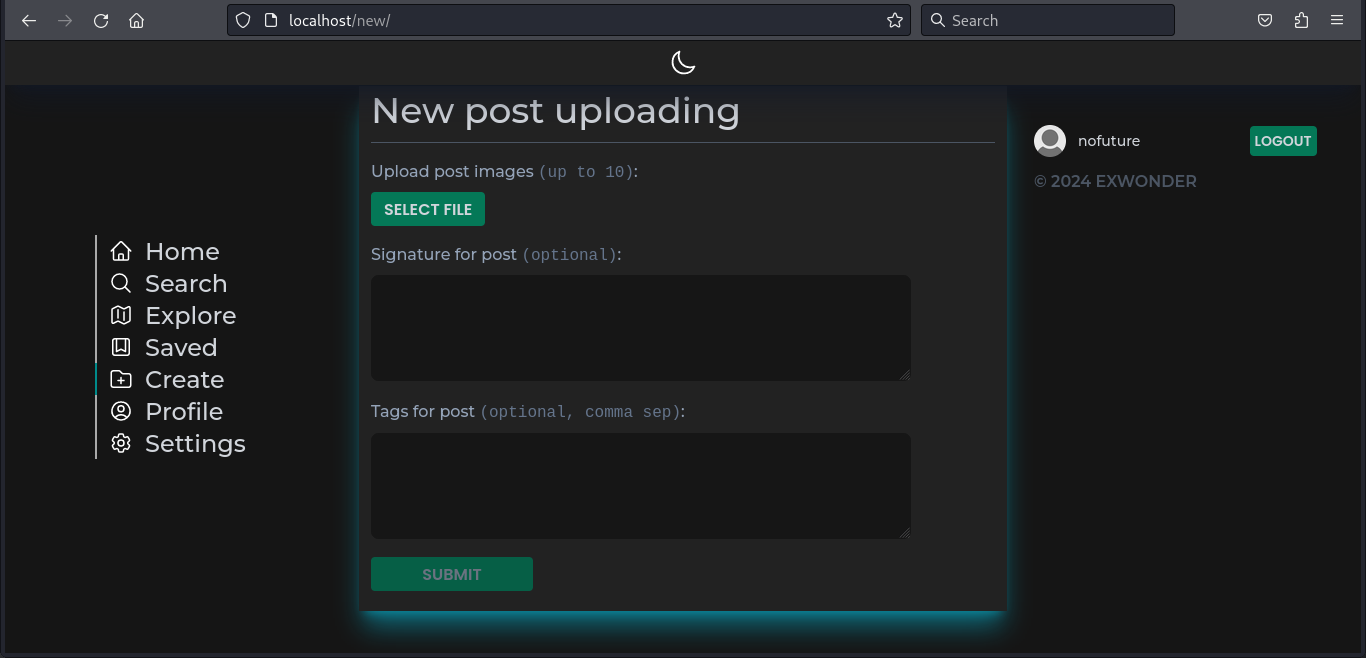
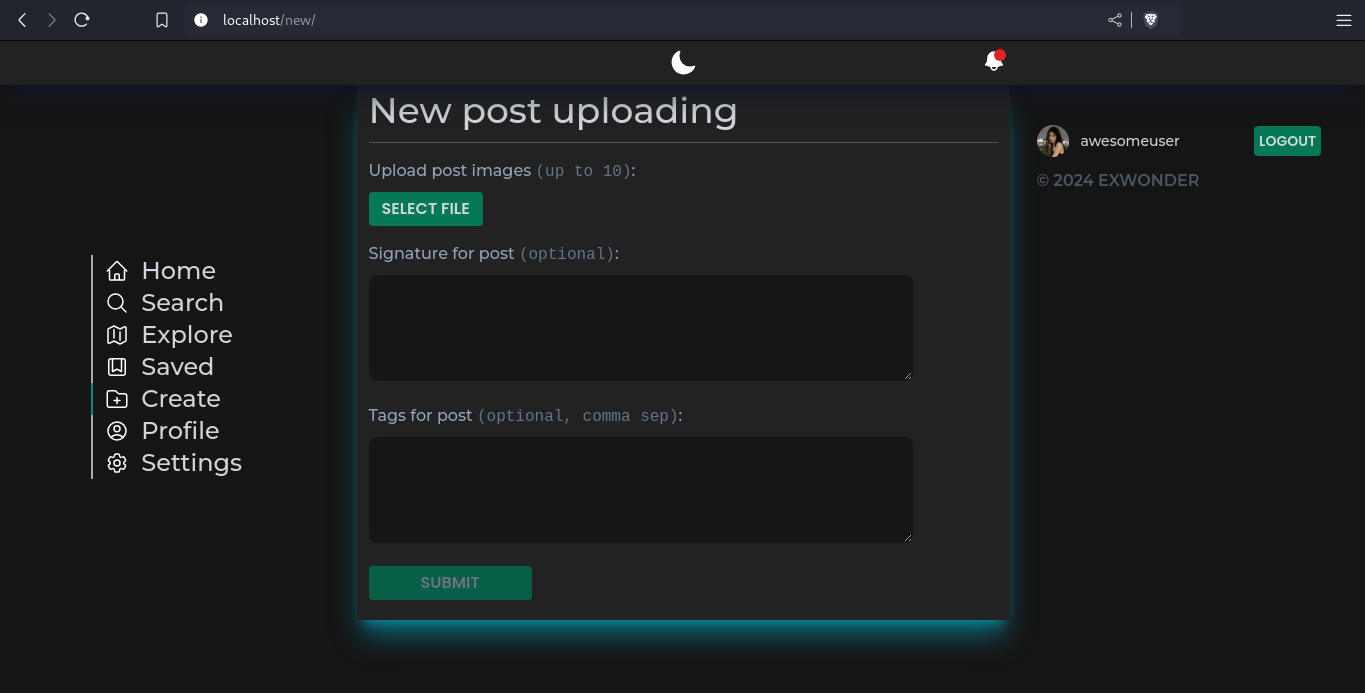
Update project screens

diff --git a/README.md b/README.md
@@ -50,27 +50,27 @@ bun dev
 ## Скриншоты
 
 1. Создание аккаунта:<br>
-   <img alt="image" height="338" src=".githubscreenshots/singup.png" width="700"/>
+   <img alt="image" height="356" src=".githubscreenshots/singup.png" width="700"/>
 2. Вход в аккаунт:<br>
-   <img alt="image" height="338" src=".githubscreenshots/login.png" width="700"/>
+   <img alt="image" height="356" src=".githubscreenshots/login.png" width="700"/>
 3. Новости:<br>
-   <img alt="image" height="338" src=".githubscreenshots/feed.png" width="700"/>
+   <img alt="image" height="356" src=".githubscreenshots/feed.png" width="700"/>
 4. Исследование:<br>
-   <img alt="image" height="338" src=".githubscreenshots/explore.png" width="700"/>
+   <img alt="image" height="356" src=".githubscreenshots/explore.png" width="700"/>
 5. Создание поста:<br>
-   <img alt="image" height="338" src=".githubscreenshots/new-post.png" width="700"/>
+   <img alt="image" height="356" src=".githubscreenshots/new-post.png" width="700"/>
 6. Аккаунт:<br>
-   <img alt="image" height="338" src=".githubscreenshots/user.png" width="700"/>
-7. Настройки аккаунта:<br>
-   <img alt="image" height="338" src=".githubscreenshots/settings.png" width="700"/>
+   <img alt="image" height="356" src=".githubscreenshots/user.png" width="700"/>
+7. Настройки аккаунта и уведомления:<br>
+   <img alt="image" height="356" src=".githubscreenshots/settings.png" width="700"/>
 8. Просмотр поста:<br>
-   <img alt="image" height="338" src=".githubscreenshots/post.png" width="700"/>
+   <img alt="image" height="356" src=".githubscreenshots/post.png" width="700"/>
 9. Просмотр подписок пользователя:<br>
-   <img alt="image" height="338" src=".githubscreenshots/followings.png" width="700"/>
+   <img alt="image" height="356" src=".githubscreenshots/followings.png" width="700"/>
 10. Глобальный поиск пользователей:<br>
-    <img alt="image" height="338" src=".githubscreenshots/search.png" width="700"/>
+    <img alt="image" height="356" src=".githubscreenshots/search.png" width="700"/>
 11. Сохраненные посты:<br>
-    <img alt="image" height="338" src=".githubscreenshots/saved.png" width="700"/>
+    <img alt="image" height="356" src=".githubscreenshots/saved.png" width="700"/>
 <!-- TOC --><a name="license"></a>
 
 ## Лицензия
